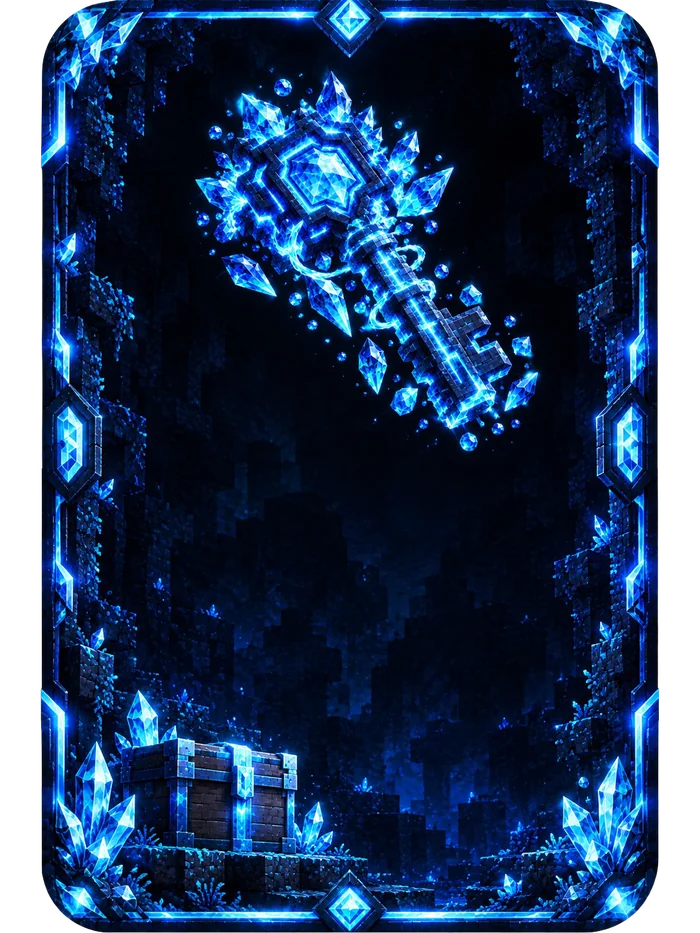
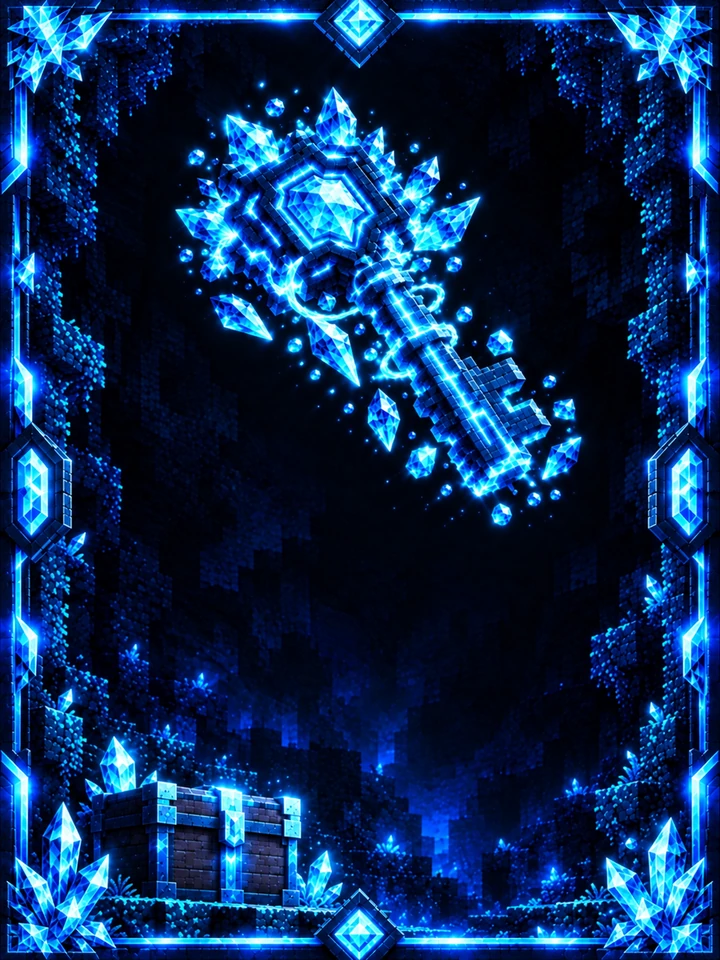
Round 6: user's 3:4 frame images + colored borders + resolution optimization
New frame images (9 total, all exactly 1086×1448 / 3:4 ratio):
- Source: QuackForgeGit/filesai (VipFRAMEE.png through SpawnerKeyFRAMEE.png)
- User perfectly squared them to 3:4 ratio — no cropping needed
- Replaced all 9 .webp files in public/frames/

Resolution optimization (calculated for actual display size):
Card images: display 360×480 desktop / 300×400 mobile
  - At 2x DPI (retina): need 720×960 actual pixels for perfect sharpness
  - Source: 1086×1448 (oversized for display)
  - Target: 720×960 (33% downscale in each dimension, no quality loss)
  - Result: 22MB → 1.83MB total (92% reduction)
  - Method: PIL LANCZOS resampling + WebP quality 90 (visually lossless)

Other assets NOT touched (already right-sized):
  - pkg-*.webp: already small, displayed at 54-72px (already optimized)
  - store-logo-new.webp / crazysmp-logo.webp: ~340px display, already small

Colored square borders around each card:
- border: 3px solid var(--csmp-tone) on mobile (4px desktop)
- background: rgba(20,16,25,0.55) — dark translucent fill
- box-shadow: 0 0 24px -6px var(--csmp-glow) — tone-matched glow
- Tone CSS variable passed per-card via inline style:
  * --csmp-tone: t.border (e.g. #22D3EE cyan, #E9C93F gold, etc.)
  * --csmp-glow: t.glow (e.g. rgba(34,211,238,0.5))
- Each card gets its own color matching its tier (6 rank tones + 3 key tones)
- No cropping — border sits OUTSIDE the image, image fills card 100%

diff --git a/src/components/card-section.tsx b/src/components/card-section.tsx
@@ -76,22 +76,23 @@ export function CardSection({
           width: 300px;
           height: 400px;
           margin-left: -150px;
-          border-radius: 18px;
+          border-radius: 16px;
           /* overflow: hidden REMOVED so the image's transparent areas don't get clipped to a black box */
           cursor: pointer;
           will-change: transform, opacity;
           backface-visibility: hidden;
           -webkit-backface-visibility: hidden;
-          /* OUTLINE INVISIBLE — only the image defines the card's shape */
-          border: 1px solid transparent;
-          background: transparent;
-          box-shadow: none;
+          /* Colored square border — tone-matched per card, no cropping */
+          border: 3px solid var(--csmp-tone, #22D3EE);
+          background: rgba(20, 16, 25, 0.55);
+          box-shadow: 0 0 24px -6px var(--csmp-glow, rgba(34,211,238,0.4));
         }
         @media (min-width: 900px) {
           .csmp-playing-card {
             width: 360px;
             height: 480px;
             margin-left: -180px;
+            border-width: 4px;
           }
         }
         .csmp-card-img {
@@ -234,7 +235,12 @@ function CardStack({
             <motion.div
               key={pkg.id}
               className="csmp-playing-card"
-              style={{ zIndex, boxShadow }}
+              style={{
+                zIndex,
+                boxShadow,
+                "--csmp-tone": t.border,
+                "--csmp-glow": t.glow,
+              } as React.CSSProperties}
               animate={{ transform, opacity }}
               transition={{ type: "spring", stiffness: 280, damping: 28, mass: 1.0 }}
               onClick={() => setActive(i)}
